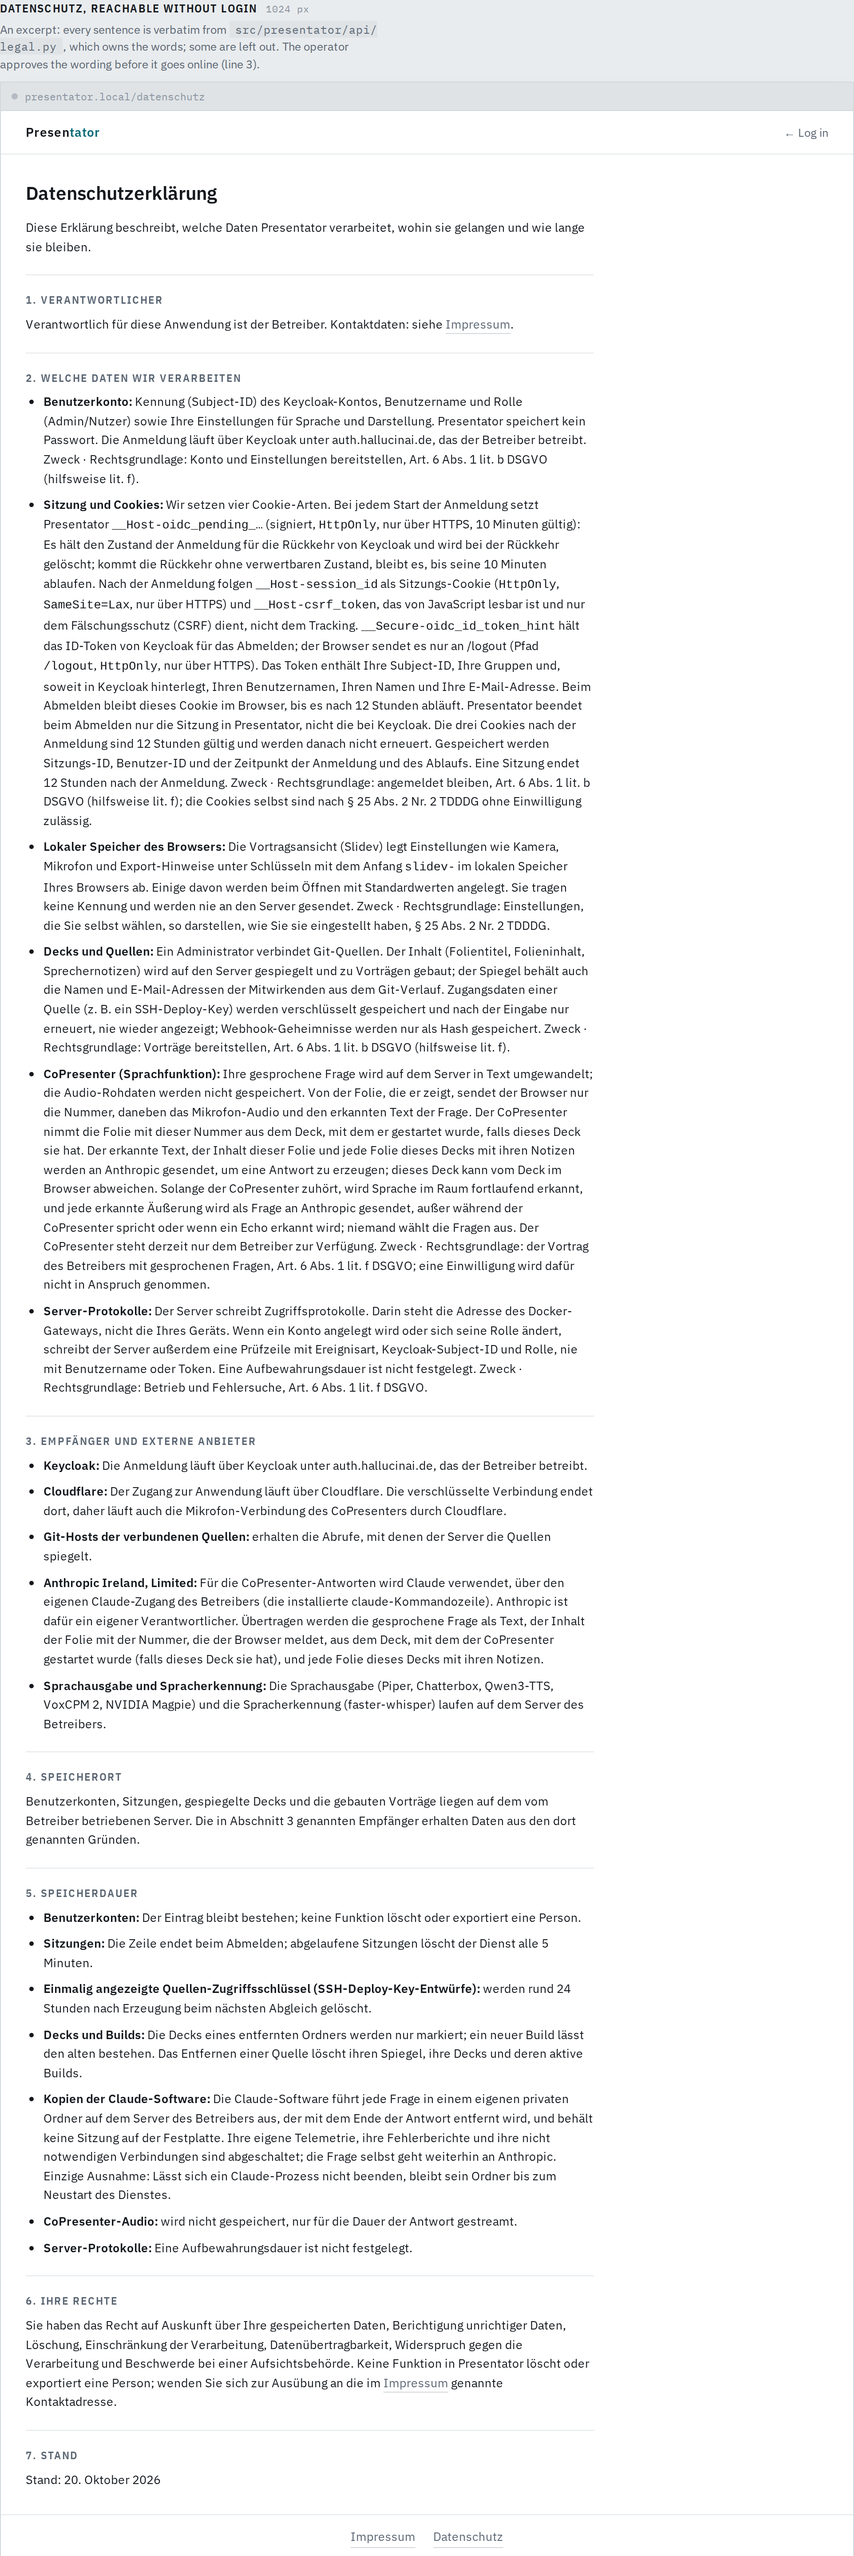
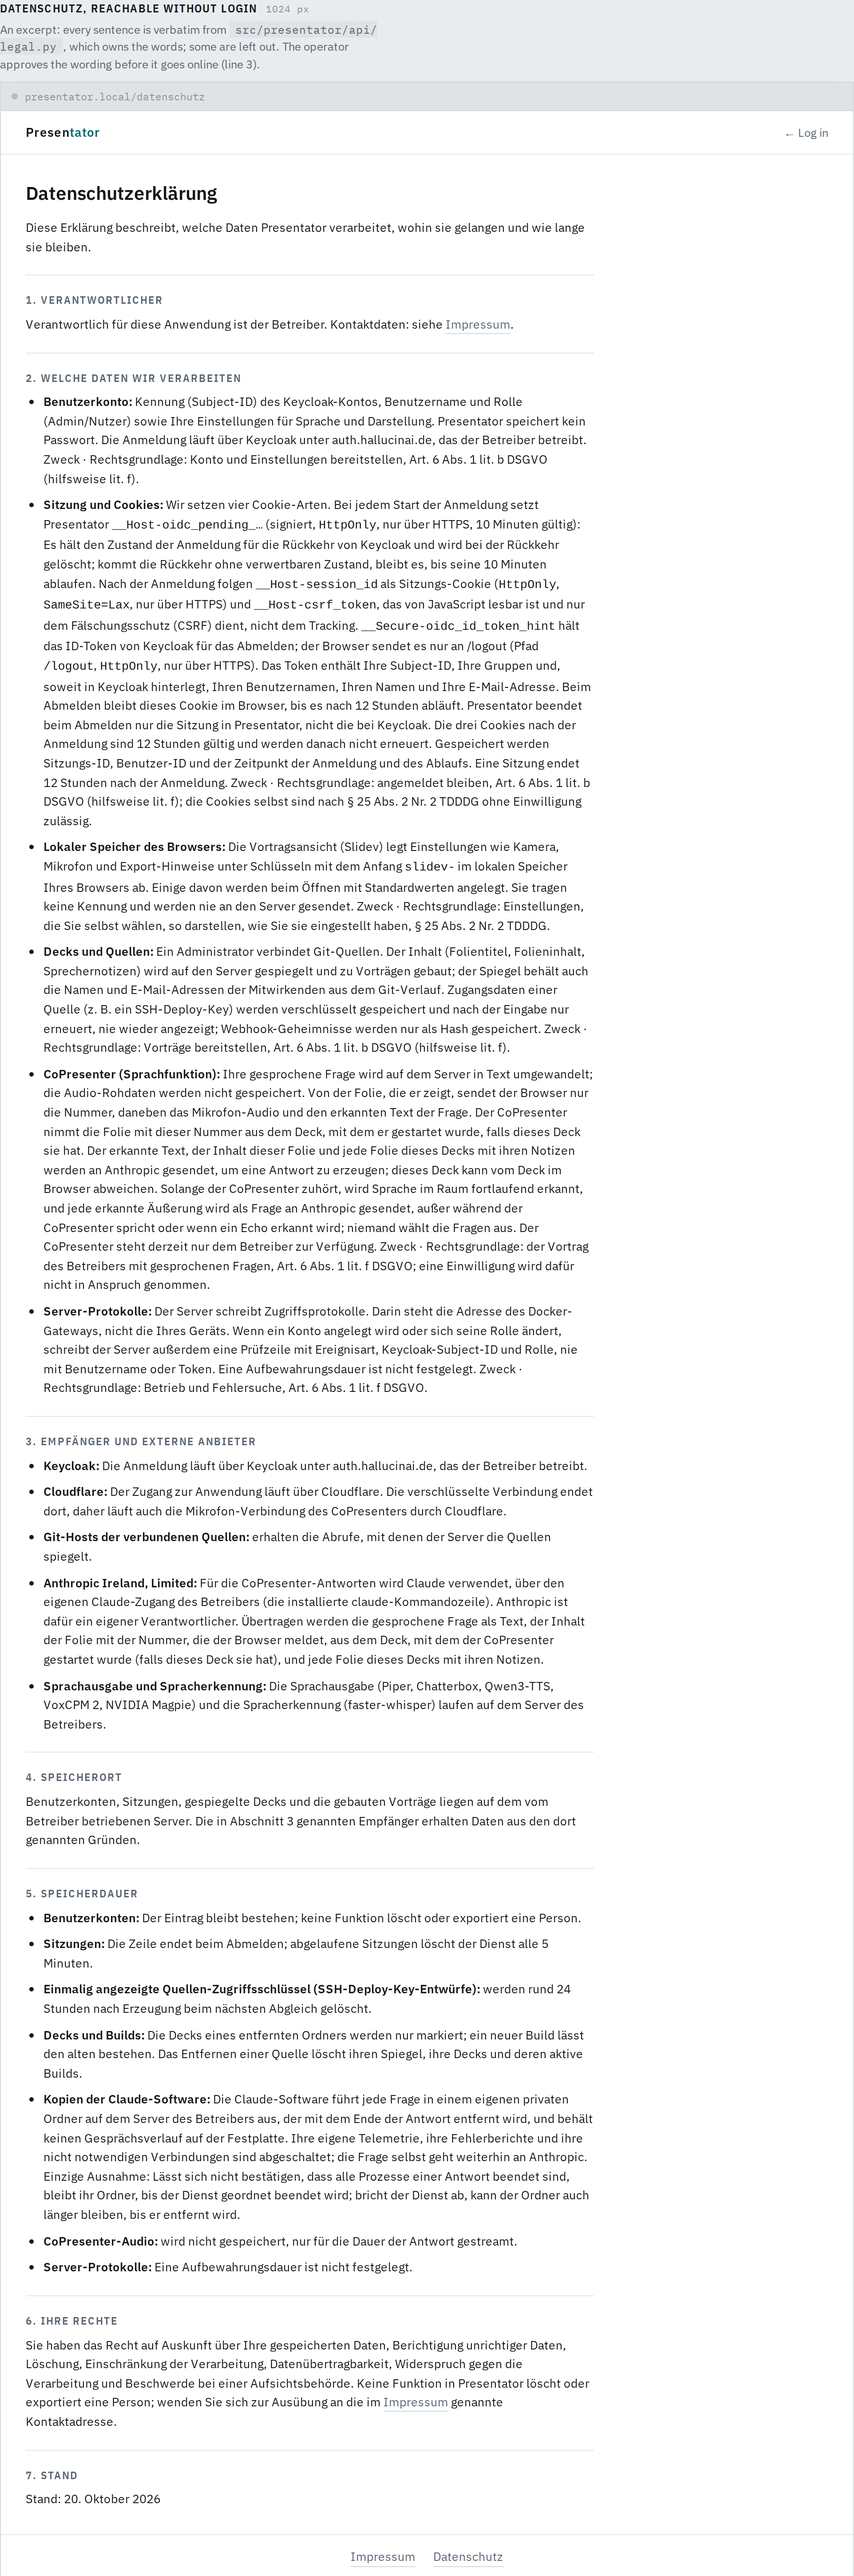
The Datenschutz says what v0.5.0 proves about a kept Claude folder and the runbooks give the host rule
Round 1 of #339 (PR #340): the exception said a folder stays only when a
process cannot be ended; v0.5.0 keeps it whenever the end of a turn's
processes cannot be confirmed, removes it only at an orderly stop, and after
a crash it stays until removed. "Sitzung" became "Gesprächsverlauf" so it no
longer means a login session. The managed-settings limit is a host rule in
docs/OPERATIONS.md, not a Datenschutz clause. Boards and PNGs follow.

Changed region(s): [[0.0312, 0.0311, 0.6861, 0.964], [0.499, 0.9951, 0.5925, 1.0], [0.4054, 0.9951, 0.4678, 1.0]]

diff --git a/docs/mockups/m0-lobby.html b/docs/mockups/m0-lobby.html
@@ -4326,7 +4326,7 @@ Cannot resolve import "./folien/03-fabric.md" from slides.md
                   <li><b>Sitzungen:</b> Die Zeile endet beim Abmelden; abgelaufene Sitzungen löscht der Dienst alle 5 Minuten.</li>
                   <li><b>Einmalig angezeigte Quellen-Zugriffsschlüssel (SSH-Deploy-Key-Entwürfe):</b> werden rund 24 Stunden nach Erzeugung beim nächsten Abgleich gelöscht.</li>
                   <li><b>Decks und Builds:</b> Die Decks eines entfernten Ordners werden nur markiert; ein neuer Build lässt den alten bestehen. Das Entfernen einer Quelle löscht ihren Spiegel, ihre Decks und deren aktive Builds.</li>
-                  <li><b>Kopien der Claude-Software:</b> Die Claude-Software führt jede Frage in einem eigenen privaten Ordner auf dem Server des Betreibers aus, der mit dem Ende der Antwort entfernt wird, und behält keine Sitzung auf der Festplatte. Ihre eigene Telemetrie, ihre Fehlerberichte und ihre nicht notwendigen Verbindungen sind abgeschaltet; die Frage selbst geht weiterhin an Anthropic. Einzige Ausnahme: Lässt sich ein Claude-Prozess nicht beenden, bleibt sein Ordner bis zum Neustart des Dienstes.</li>
+                  <li><b>Kopien der Claude-Software:</b> Die Claude-Software führt jede Frage in einem eigenen privaten Ordner auf dem Server des Betreibers aus, der mit dem Ende der Antwort entfernt wird, und behält keinen Gesprächsverlauf auf der Festplatte. Ihre eigene Telemetrie, ihre Fehlerberichte und ihre nicht notwendigen Verbindungen sind abgeschaltet; die Frage selbst geht weiterhin an Anthropic. Einzige Ausnahme: Lässt sich nicht bestätigen, dass alle Prozesse einer Antwort beendet sind, bleibt ihr Ordner, bis der Dienst geordnet beendet wird; bricht der Dienst ab, kann der Ordner auch länger bleiben, bis er entfernt wird.</li>
                   <li><b>CoPresenter-Audio:</b> wird nicht gespeichert, nur für die Dauer der Antwort gestreamt.</li>
                   <li><b>Server-Protokolle:</b> Eine Aufbewahrungsdauer ist nicht festgelegt.</li>
                 </ul>
@@ -4404,7 +4404,7 @@ Cannot resolve import "./folien/03-fabric.md" from slides.md
                   <li><b>Sitzungen:</b> Die Zeile endet beim Abmelden; abgelaufene Sitzungen löscht der Dienst alle 5 Minuten.</li>
                   <li><b>Einmalig angezeigte Quellen-Zugriffsschlüssel (SSH-Deploy-Key-Entwürfe):</b> werden rund 24 Stunden nach Erzeugung beim nächsten Abgleich gelöscht.</li>
                   <li><b>Decks und Builds:</b> Die Decks eines entfernten Ordners werden nur markiert; ein neuer Build lässt den alten bestehen. Das Entfernen einer Quelle löscht ihren Spiegel, ihre Decks und deren aktive Builds.</li>
-                  <li><b>Kopien der Claude-Software:</b> Die Claude-Software führt jede Frage in einem eigenen privaten Ordner auf dem Server des Betreibers aus, der mit dem Ende der Antwort entfernt wird, und behält keine Sitzung auf der Festplatte. Ihre eigene Telemetrie, ihre Fehlerberichte und ihre nicht notwendigen Verbindungen sind abgeschaltet; die Frage selbst geht weiterhin an Anthropic. Einzige Ausnahme: Lässt sich ein Claude-Prozess nicht beenden, bleibt sein Ordner bis zum Neustart des Dienstes.</li>
+                  <li><b>Kopien der Claude-Software:</b> Die Claude-Software führt jede Frage in einem eigenen privaten Ordner auf dem Server des Betreibers aus, der mit dem Ende der Antwort entfernt wird, und behält keinen Gesprächsverlauf auf der Festplatte. Ihre eigene Telemetrie, ihre Fehlerberichte und ihre nicht notwendigen Verbindungen sind abgeschaltet; die Frage selbst geht weiterhin an Anthropic. Einzige Ausnahme: Lässt sich nicht bestätigen, dass alle Prozesse einer Antwort beendet sind, bleibt ihr Ordner, bis der Dienst geordnet beendet wird; bricht der Dienst ab, kann der Ordner auch länger bleiben, bis er entfernt wird.</li>
                   <li><b>CoPresenter-Audio:</b> wird nicht gespeichert, nur für die Dauer der Antwort gestreamt.</li>
                   <li><b>Server-Protokolle:</b> Eine Aufbewahrungsdauer ist nicht festgelegt.</li>
                 </ul>

diff --git a/src/presentator/api/legal.py b/src/presentator/api/legal.py
@@ -287,13 +287,15 @@ DATENSCHUTZ: Final = LegalDocument(
                     "Kopien der Claude-Software:",
                     "Die Claude-Software führt jede Frage in einem eigenen "
                     "privaten Ordner auf dem Server des Betreibers aus, der "
-                    "mit dem Ende der Antwort entfernt wird, und behält keine "
-                    "Sitzung auf der Festplatte. Ihre eigene Telemetrie, ihre "
-                    "Fehlerberichte und ihre nicht notwendigen Verbindungen "
-                    "sind abgeschaltet; die Frage selbst geht weiterhin an "
-                    "Anthropic. Einzige Ausnahme: Lässt sich ein "
-                    "Claude-Prozess nicht beenden, bleibt sein Ordner bis zum "
-                    "Neustart des Dienstes.",
+                    "mit dem Ende der Antwort entfernt wird, und behält "
+                    "keinen Gesprächsverlauf auf der Festplatte. Ihre eigene "
+                    "Telemetrie, ihre Fehlerberichte und ihre nicht "
+                    "notwendigen Verbindungen sind abgeschaltet; die Frage "
+                    "selbst geht weiterhin an Anthropic. Einzige Ausnahme: "
+                    "Lässt sich nicht bestätigen, dass alle Prozesse einer "
+                    "Antwort beendet sind, bleibt ihr Ordner, bis der Dienst "
+                    "geordnet beendet wird; bricht der Dienst ab, kann der "
+                    "Ordner auch länger bleiben, bis er entfernt wird.",
                 ),
                 _point(
                     "CoPresenter-Audio:",

diff --git a/tests/api/test_auth.py b/tests/api/test_auth.py
@@ -605,12 +605,15 @@ def test_the_datenschutz_discloses_the_cookie_kinds_the_token_and_the_hint_at_lo
     )
 
 
-def test_the_datenschutz_says_the_claude_software_keeps_no_session_and_no_old_copy(
+def test_the_datenschutz_says_the_claude_software_keeps_no_conversation_and_no_old_copy(
     lobby: Lobby,
 ) -> None:
     page = lobby.client.get("/datenschutz").text
 
-    assert "keine Sitzung auf der Festplatte" in page
+    assert "keinen Gesprächsverlauf auf der Festplatte" in page
+    assert "Sitzung auf der Festplatte" not in page
+    assert "bis der Dienst geordnet beendet wird" in page
+    assert "bricht der Dienst ab" in page
     assert "die Frage selbst geht weiterhin an Anthropic" in page
     assert "30 Tage" not in page
 

diff --git a/docs/OPERATIONS.md b/docs/OPERATIONS.md
@@ -547,8 +547,14 @@ a file beside it and `mv -T` it over. The unit needs no `UnsetEnvironment=`
 line for the login, and old CLI copies under `~/.claude` can be purged. Each
 turn's home lives below `COPRESENTER_CLI_WORKING_ROOT` and is removed when the
 turn ends. When the log says a turn's process group is not confirmed gone, that
-turn's home stays under the root until `presentator-copresenter.service`
-restarts.
+turn's home stays under the root until the service stops in an orderly way;
+after a crash, SIGKILL or OOM it stays until removed, so remove leftover homes
+under the root once no process of that turn is left.
+
+No Claude managed-settings file on this host may configure an export
+(`/etc/claude-code/managed-settings.json`, `/etc/claude-code/managed-mcp.json`):
+the Datenschutz says the CLI's own telemetry and nonessential traffic are off,
+and the child's switches do not override a managed export.
 
 After an upgrade, restart `presentator-copresenter.service`, then ask one
 question on stage to see the answer arrive.

diff --git a/copresenter/README.md b/copresenter/README.md
@@ -71,7 +71,8 @@ every app on this machine shares. The process does not take an API key. Each
 turn runs in a fresh home below `COPRESENTER_CLI_WORKING_ROOT` with a closed
 environment: the token reaches the child only as `CLAUDE_CODE_OAUTH_TOKEN`, and
 the home is gone when the turn ends. A turn whose process group cannot be shown
-gone leaves its home until `presentator-copresenter.service` restarts.
+gone leaves its home until the service stops in an orderly way, and after a
+crash until it is removed.
 
 ```sh
 # the shared token file exists once: `claude setup-token`, one line, mode 0600
